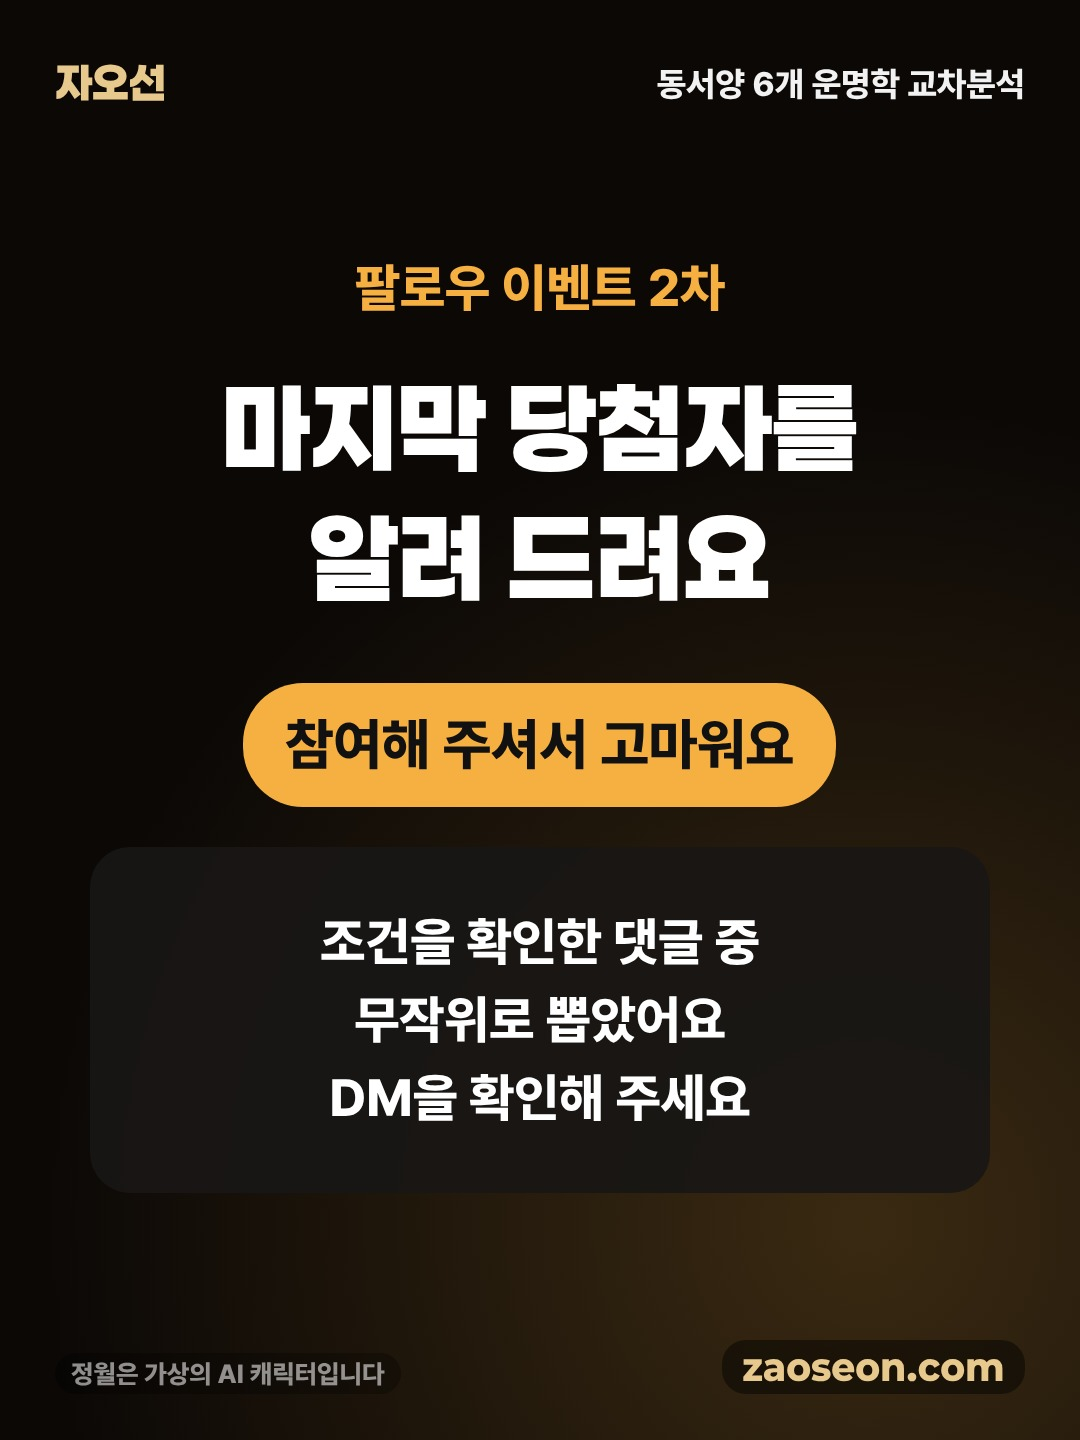
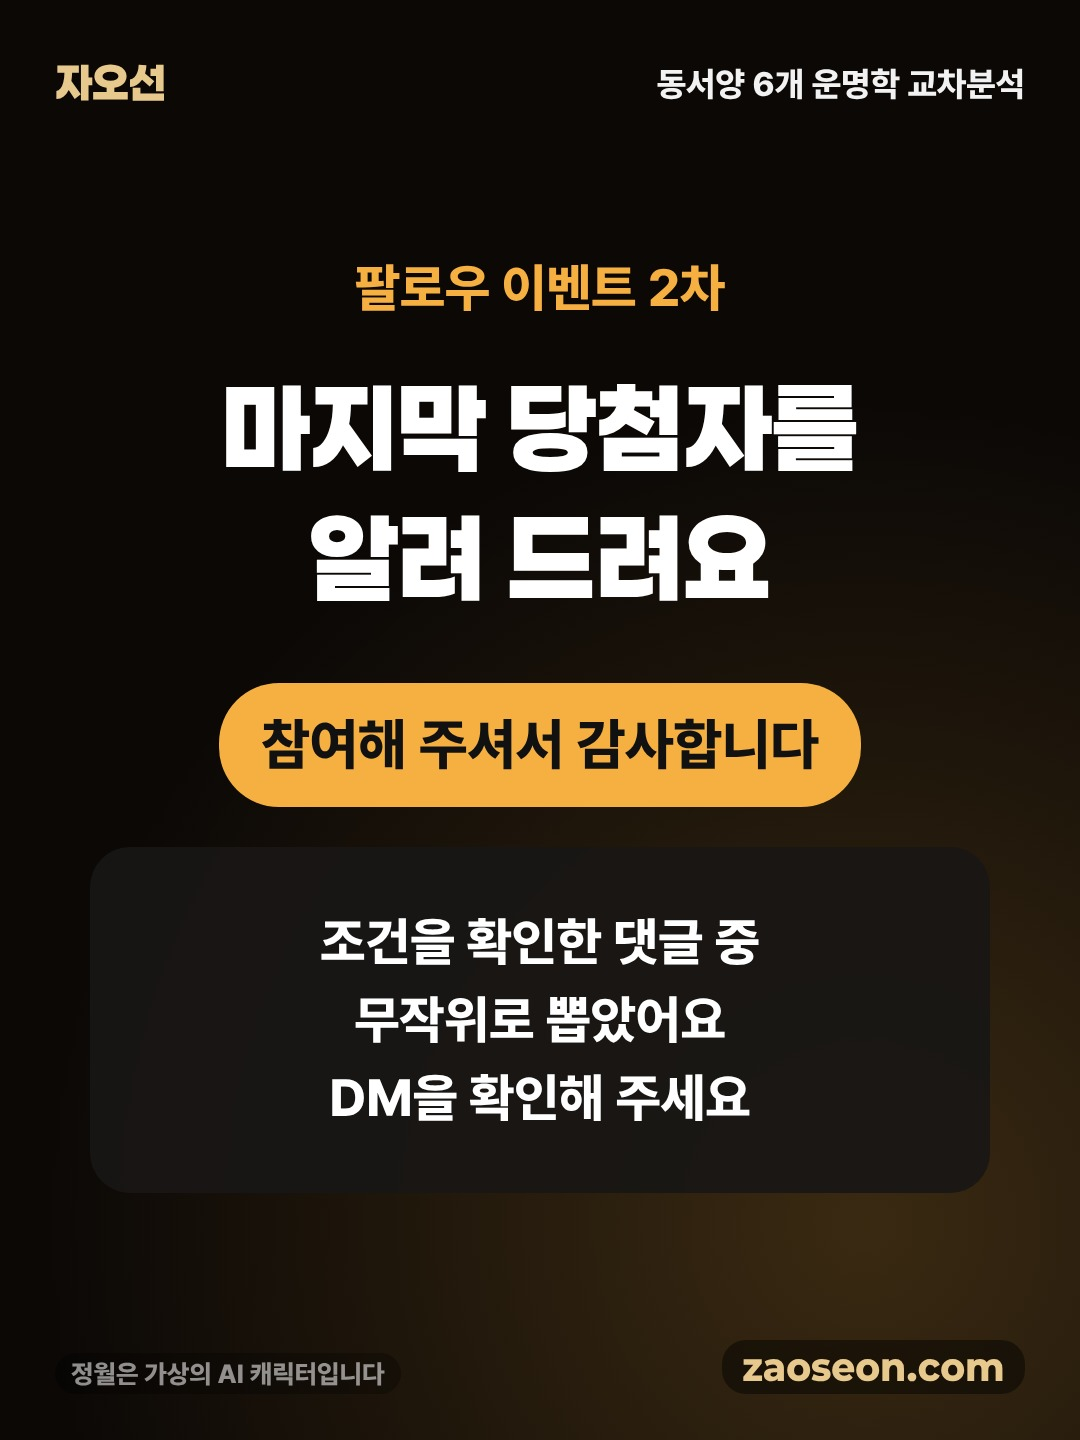
2차 발표 스토리 배경: '참여해 주셔서 고마워요' → '감사합니다' (앱 요청 mv8ztrew)
Claude-Session: https://claude.ai/code/session_01Pgp5twGSranPT57ZNgL8i8

Changed region(s): [[0.1833, 0.4688, 0.7944, 0.5625]]

diff --git a/2026-event/build.py b/2026-event/build.py
@@ -95,7 +95,7 @@ def pick1020():
 def draw1022():
     return [cover('팔로우 이벤트 1차', '당첨자를\n알려 드려요', '조건을 확인한 댓글 중\n무작위로 뽑았어요\nDM을 확인해 주세요', '2차 발표 10월 29일')]
 def draw1029():
-    return [cover('팔로우 이벤트 2차', '마지막 당첨자를\n알려 드려요', '조건을 확인한 댓글 중\n무작위로 뽑았어요\nDM을 확인해 주세요', '참여해 주셔서 고마워요')]
+    return [cover('팔로우 이벤트 2차', '마지막 당첨자를\n알려 드려요', '조건을 확인한 댓글 중\n무작위로 뽑았어요\nDM을 확인해 주세요', '참여해 주셔서 감사합니다')]   # 10/15 대표 요청 mv8ztrew: '고마워요' 어색 → '감사합니다'
 SINGLE = {'shari1020', 'close1019', 'pick1020', 'draw1022', 'draw1029'}
 SETS = {'trial1015': trial1015, 'follow1016': follow1016, 'shari1020': shari1020, 'close1019': close1019, 'pick1020': pick1020, 'draw1022': draw1022, 'draw1029': draw1029}
 
